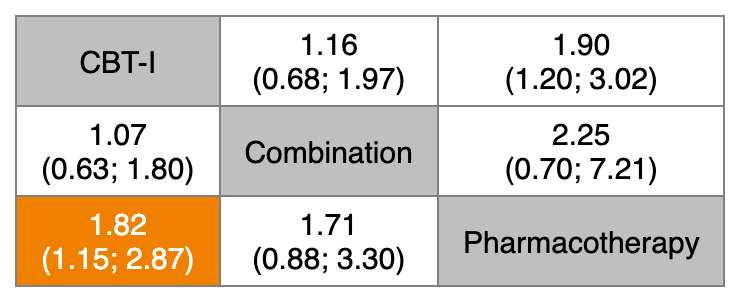
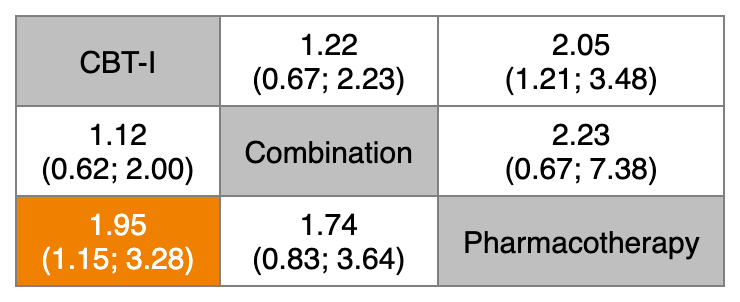
docs(manual): regenerate outputs and text for the REML tau^2 default
- Regenerate all static images and snippets with the REML default
  (forest, league, netsplit, kilim, vitruvian, context tables).
- Update quoted model output and captions in chapters 1 and 3
  (CBT-I OR 1.99 [1.15; 3.44], tau^2 = 0.1021, REML method line).
- Chapter 3: new section on the tau^2 estimator and how to override it.
- Chapter 4: note that IV-RE-CC deliberately keeps DL.
- Chapter 14: raise the part_context() demo threshold to 14 pp so the
  CBT-I (Group +1) vs Combination (Group 0) contrast still holds.
- Chapter 15: FAQ entry for results differing from plain netmeta().

diff --git a/docs/manual/03-nma-pipeline.md b/docs/manual/03-nma-pipeline.md
@@ -123,8 +123,8 @@ also written; see [Chapter 4](04-batch-and-rare-events.md).)
 total N and edge thickness to the number of studies.*
 
 ![Forest plot versus reference](images/pipeline_forest.png)
-*Forest plot versus Pharmacotherapy (random-effects model): CBT-I OR 1.82
-[1.15; 2.87], Combination OR 1.71 [0.88; 3.30].*
+*Forest plot versus Pharmacotherapy (random-effects model): CBT-I OR 1.99
+[1.15; 3.44], Combination OR 1.76 [0.82; 3.78].*
 
 ![Netpairwise forest](images/pipeline_netpairwise.png)
 *Netpairwise forest: every pairwise comparison in the network, pooled across
@@ -160,12 +160,17 @@ Random effects model
 
 Treatment estimate (other treatments vs 'Pharmacotherapy'):
                     OR           95%-CI    z p-value
-CBT-I           1.8176 [1.1494; 2.8743] 2.56  0.0106
-Combination     1.7054 [0.8813; 3.3001] 1.58  0.1130
+CBT-I           1.9915 [1.1521; 3.4427] 2.47  0.0136
+Combination     1.7559 [0.8158; 3.7791] 1.44  0.1500
 Pharmacotherapy      .                .    .       .
 
 Quantifying heterogeneity / inconsistency:
-tau^2 = 0.0206; tau = 0.1435; I^2 = 4.2% [0.0%; 61.9%]
+tau^2 = 0.1021; tau = 0.3196; I^2 = 4.2% [0.0%; 61.9%]
+
+Details of network meta-analysis methods:
+- Frequentist graph-theoretical approach
+- Restricted maximum-likelihood estimator for tau^2
+- Calculation of I^2 based on Q
 ```
 
 The global inconsistency test (`global_test_remission_lt.txt`) is the
@@ -188,10 +193,10 @@ Separate indirect from direct evidence (SIDE) using back-calculation method
 
 Random effects model:
 
-                  comparison k prop    nma direct indir.    RoR    z p-value
-           CBT-I:Combination 5 0.96 1.0658 1.1577 0.1385 8.3595 1.54  0.1230
-       CBT-I:Pharmacotherapy 7 0.98 1.8176 1.9032 0.1642 11.587 1.42  0.1550
- Combination:Pharmacotherapy 3 0.32 1.7054 2.2528 1.4940 1.5079 0.57  0.5688
+                  comparison k prop    nma direct indir.     RoR    z p-value
+           CBT-I:Combination 5 0.95 1.1342 1.2474 0.1644  7.5863 1.37  0.1692
+       CBT-I:Pharmacotherapy 7 0.98 1.9915 2.1064 0.1947 10.8178 1.29  0.1961
+ Combination:Pharmacotherapy 3 0.40 1.7559 2.2199 1.5017  1.4783 0.49  0.6244
 ```
 
 ## Overriding defaults
@@ -199,6 +204,25 @@ Random effects model:
 Every key argument of the underlying `netmeta()`, `forest()`,
 `netpairwise()`, and `netsplit()` calls can be overridden through the matching
 `*_args` list. Values you supply replace the wrapper's defaults for that call.
+
+### Between-study variance estimator (tau^2)
+
+`netmetawrap()` and `run_nma_batch()` estimate tau^2 by **REML** by default,
+matching the `cinema()` GUI. This differs from `netmeta`'s own default
+(DerSimonian-Laird), so results can differ slightly from a bare `netmeta()`
+call or from nmatools versions before 0.2.2. The estimator follows through to
+`netpairwise()` and `netsplit()`, which reuse the fitted model. To use another
+estimator, pass it through `netmeta_args`:
+
+```r
+netmetawrap(..., netmeta_args = list(method.tau = "DL"))
+```
+
+For binary outcomes fitted with `netmetabin(method = "Inverse")`, which has no
+`method.tau` argument, nmatools applies the estimator through a temporary
+`meta::settings.meta(method.tau.netmeta = )` and restores your session setting
+afterwards. Mantel-Haenszel and NCH models (the rare-event workflow) are
+common-effect and estimate no tau^2.
 
 ```r
 library(nmatools)

diff --git a/docs/manual/14-evidence-frameworks.md b/docs/manual/14-evidence-frameworks.md
@@ -190,7 +190,7 @@ single threshold `c(t)`:
 pc_lt <- part_context(
   x            = net_lt,
   reference    = "Pharmacotherapy",
-  thresholds   = c(0.12),         # smallest worthwhile ARD = 12 percentage points
+  thresholds   = c(0.14),         # smallest worthwhile ARD = 14 percentage points
   cer          = 0.28,            # Pharmacotherapy remission rate 28%
   small_values = "undesirable"
 )
@@ -202,12 +202,12 @@ The returned data frame (reference first, then by `abs_effect` descending):
 | treatment | abs_effect | group | cinema | n_total | n_quality |
 |---|---|---|---|---|---|
 | Pharmacotherapy | 0.0000000 | 0 | `<NA>` | 239 | Moderate |
-| CBT-I | 0.1341207 | 1 | Moderate | 335 | Moderate |
-| Combination | 0.1187546 | 0 | Moderate | 186 | Moderate |
+| CBT-I | 0.1506708 | 1 | Moderate | 335 | Moderate |
+| Combination | 0.1240658 | 0 | Moderate | 186 | Moderate |
 
-Here CBT-I raises the absolute remission rate by about 13 percentage points
-over Pharmacotherapy — past the 12-point smallest-worthwhile-difference — so it
-lands in Group +1, while Combination's ~12-point gain falls just short and
+Here CBT-I raises the absolute remission rate by about 15 percentage points
+over Pharmacotherapy — past the 14-point smallest-worthwhile-difference — so it
+lands in Group +1, while Combination's ~12-point gain falls short and
 stays in Group 0.
 
 The result carries useful attributes: `attr(pc_lt, "threshold_labels")` gives

diff --git a/docs/manual/15-troubleshooting.md b/docs/manual/15-troubleshooting.md
@@ -31,6 +31,19 @@ here, see [Getting help](#158-getting-help) at the end.
 > A recent `netmeta` (≥ 3.x) is required precisely because the pipeline relies
 > on the modern `common =` / `random =` names; see [Chapter 1](01-installation.md).
 
+### Results differ from a plain `netmeta()` call or an older nmatools
+
+> **Symptom.** tau^2, confidence intervals, or P-values from `netmetawrap()`
+> do not match a `netmeta()` call you ran yourself, or outputs from nmatools
+> before 0.2.2.
+>
+> **Cause.** Since 0.2.2 nmatools estimates tau^2 by REML (as the `cinema()`
+> GUI does), whereas `netmeta` defaults to DerSimonian-Laird.
+>
+> **Fix.** Either add `method.tau = "REML"` to your own `netmeta()` call, or
+> reproduce the old behavior with `netmeta_args = list(method.tau = "DL")`
+> (see [Chapter 3](03-nma-pipeline.md#between-study-variance-estimator-tau2)).
+
 ### `run_nma_batch()` rejects unquoted column names
 
 > **Symptom.** A batch run fails with an error such as `object 'id' not found`,

diff --git a/docs/manual/04-batch-and-rare-events.md b/docs/manual/04-batch-and-rare-events.md
@@ -208,7 +208,10 @@ The sensitivity panel stacks four methods for each non-reference treatment:
 **MH** (Mantel-Haenszel, no continuity correction, common-effect — the
 primary), **NCH** (non-central hypergeometric), **IV-FE-CC**
 (inverse-variance, fixed-effect, continuity correction 0.5), and **IV-RE-CC**
-(inverse-variance, random-effects, continuity correction 0.5). Comparing the
+(inverse-variance, random-effects with the DerSimonian-Laird tau^2,
+continuity correction 0.5). IV-RE-CC deliberately keeps DL rather than the
+package-wide REML default: it is a pre-specified comparator that mirrors the
+`pmatools` rare-event panel. Comparing the
 primary MH estimate against the three references shows how sensitive the
 conclusions are to the choice of method.
 

diff --git a/docs/manual/01-installation.md b/docs/manual/01-installation.md
@@ -91,8 +91,8 @@ full contents of this folder are enumerated in
 the total number of participants and edge thickness to the number of studies.*
 
 ![Forest plot versus the reference treatment](images/pipeline_forest.png)
-*Random-effects forest plot versus Pharmacotherapy: CBT-I OR 1.82
-[1.15; 2.87] and Combination OR 1.71 [0.88; 3.30].*
+*Random-effects forest plot versus Pharmacotherapy: CBT-I OR 1.99
+[1.15; 3.44] and Combination OR 1.76 [0.82; 3.78].*
 
 ## Where to go next
 
